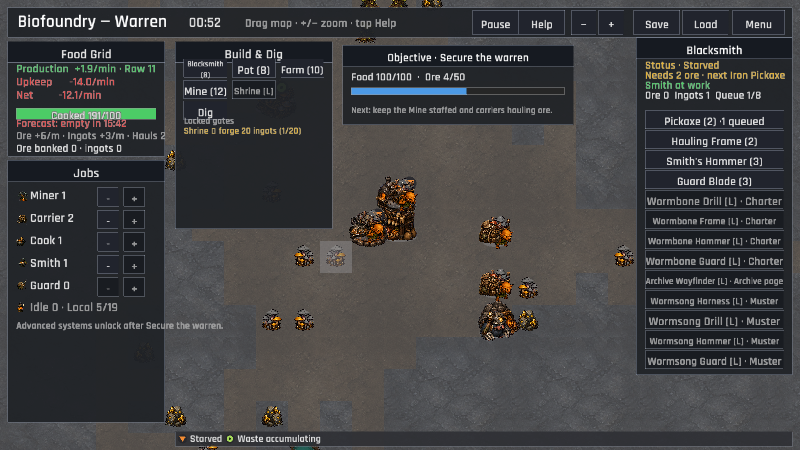
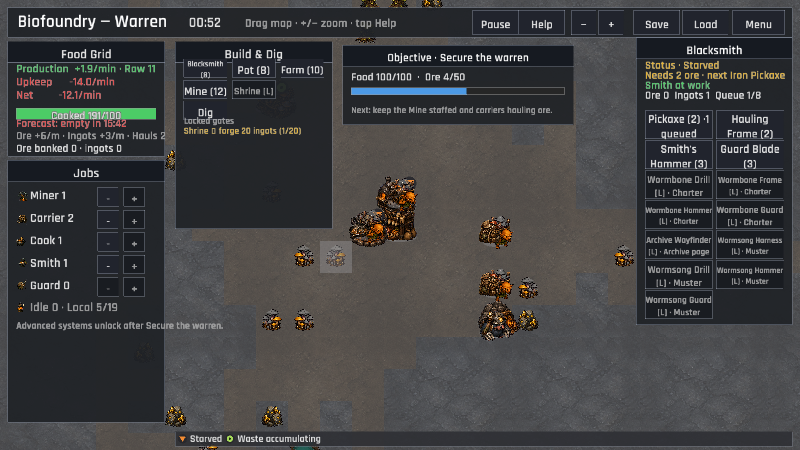
The warren keeps every forge recipe beneath the lesson (compact Blacksmith layout)
The factory tutorial could leave a first-time player staring at a Blacksmith card whose lower recipes fell below an 800×450 canvas. The existing capture set never selected the Blacksmith while Tutorial 3/5 was open, so the failure was invisible to the evidence record.

Compact Blacksmith recipes now use a two-column card with 46-pixel actions and a seven-row maximum for the authored 13-recipe catalogue; desktop keeps its single-column reading order. A deterministic tutorial_blacksmith capture and the default compact touch sweep cover the previously missing state, and the candidate record links the new evidence. cargo fmt, 500 unit tests plus two auxiliary targets, clippy, source-size checks, the 800×450 sweep, and publish.ps1 all pass.

Changed region(s): [[0.7812, 0.2489, 1.0, 0.84]]

diff --git a/src/ui/hud/inspect.rs b/src/ui/hud/inspect.rs
@@ -16,6 +16,7 @@ use macroquad_toolkit::grid::TilePos;
 use macroquad_toolkit::prelude::*;
 use macroquad_toolkit::ui::draw_ui_text_ex;
 
+mod blacksmith;
 mod breeding;
 mod outpost;
 mod rooms;
@@ -23,6 +24,7 @@ mod status;
 mod study;
 mod workstations;
 
+use blacksmith::{draw_blacksmith_inspection, BlacksmithInspection};
 use breeding::{breed_button_label, breeding_unlock_hint};
 #[cfg(test)]
 use outpost::outpost_archive_summary;
@@ -42,11 +44,13 @@ use status::{
 };
 use study::{study_adaptation_line, study_rate_per_min};
 #[cfg(test)]
-use workstations::equipment_lock_label;
 use workstations::{
-    blacksmith_equipment_label, blacksmith_input_hint, blacksmith_queue_available,
-    cook_pot_input_hint, kiln_input_hint, local_smelter_staffed_at, local_smelter_worker_at,
-    local_smith_staffed_at, local_smith_worker_at, smelter_input_hint,
+    blacksmith_equipment_label, blacksmith_queue_available, equipment_lock_label,
+    local_smith_staffed_at, local_smith_worker_at,
+};
+use workstations::{
+    blacksmith_input_hint, cook_pot_input_hint, kiln_input_hint, local_smelter_staffed_at,
+    local_smelter_worker_at, smelter_input_hint,
 };
 
 const LOCKED_SPECIALIST_MARKER: &str = "[L]";
@@ -77,11 +81,8 @@ pub(super) fn draw_inspect_panel(
     // The blacksmith panel carries the production-order queue and craft
     // buttons, and the breeding pit its breed buttons — both taller.
     let height = match building.kind.as_str() {
-        "blacksmith" if compact && data.equipment.len() >= 13 => {
-            124.0 + data.equipment.len() as f32 * inspect_button_step
-        }
-        "blacksmith" if compact && data.equipment.len() >= 10 => {
-            154.0 + data.equipment.len() as f32 * inspect_button_step
+        "blacksmith" if compact => {
+            124.0 + data.equipment.len().div_ceil(2) as f32 * inspect_button_step
         }
         "blacksmith" => 194.0 + data.equipment.len() as f32 * inspect_button_step,
         "breeding_pit" => {
@@ -289,63 +290,21 @@ pub(super) fn draw_inspect_panel(
             );
         }
         "blacksmith" => {
-            let working = session
-                .creatures
-                .iter()
-                .any(|c| local_smith_worker_at(c, pos));
-            let staffed = session
-                .creatures
-                .iter()
-                .any(|c| local_smith_staffed_at(c, pos));
-            line(
-                if working {
-                    "Smith at work"
-                } else if staffed {
-                    "Smith stationed"
-                } else {
-                    "No smith — idle"
-                },
-                if staffed {
-                    dark::POSITIVE
-                } else {
-                    dark::WARNING
-                },
-                &mut y,
-            );
-            let queue_available = blacksmith_queue_available(building, data);
-            line(
-                &format!(
-                    "Ore {:.0}  Ingots {:.0}  Queue {}/{}",
-                    building.stock(Good::Ore),
-                    building.stock(Good::Ingot),
-                    building.orders.len(),
-                    data.balance.order_queue_size,
-                ),
-                dark::TEXT,
-                &mut y,
-            );
-            if !queue_available {
-                line("Queue full · finish orders first", dark::WARNING, &mut y);
-            }
-            // Production orders: one craft button per equipment item. A
-            // queued count and how many are already banked ride in the label.
-            y += 2.0;
-            let bw = panel.w - 28.0;
-            for eq in &data.equipment {
-                let banked = session.economy.gear_stock.get(&eq.id).copied().unwrap_or(0);
-                let queued = building.orders.iter().filter(|o| **o == eq.id).count();
-                let unlocked = session.equipment_unlocked(eq);
-                let label = blacksmith_equipment_label(data, eq, compact, unlocked, queued, banked);
-                if hud_button(
-                    Rect::new(x, y, bw, inspect_button_height),
-                    &label,
-                    queue_available && unlocked,
-                    mouse,
-                ) {
-                    actions.push(UiAction::QueueOrder(pos, eq.id.clone()));
-                }
-                y += inspect_button_step;
-            }
+            draw_blacksmith_inspection(BlacksmithInspection {
+                session,
+                data,
+                building,
+                pos,
+                x,
+                y: &mut y,
+                panel_width: panel.w,
+                mouse,
+                compact,
+                button_height: inspect_button_height,
+                button_step: inspect_button_step,
+                line_step,
+                actions,
+            });
         }
         "kiln" => {
             line(
@@ -768,10 +727,8 @@ pub(super) fn draw_inspect_panel(
 }
 
 fn inspection_button_metrics(kind: &str, compact: bool, equipment_count: usize) -> (f32, f32) {
-    if compact && kind == "blacksmith" && equipment_count >= 10 {
-        (30.0, 32.0)
-    } else if compact && kind == "blacksmith" && equipment_count >= 8 {
-        (34.0, 38.0)
+    if compact && kind == "blacksmith" && equipment_count > 4 {
+        (46.0, 48.0)
     } else if compact && matches!(kind, "blacksmith" | "breeding_pit") {
         (36.0, 40.0)
     } else if !compact && kind == "breeding_pit" {

diff --git a/src/ui/hud/inspect/blacksmith.rs b/src/ui/hud/inspect/blacksmith.rs
@@ -1,0 +1,126 @@
+//! Compact and desktop inspection controls for the Blacksmith.
+
+use super::workstations::{
+    blacksmith_equipment_label, blacksmith_queue_available, local_smith_staffed_at,
+    local_smith_worker_at,
+};
+use crate::data::GameData;
+use crate::state::creatures::Good;
+use crate::state::structures::Building;
+use crate::state::GameSession;
+use crate::ui::hud::widgets::hud_button;
+use crate::ui::UiAction;
+use macroquad::prelude::*;
+use macroquad_toolkit::grid::TilePos;
+use macroquad_toolkit::prelude::*;
+use macroquad_toolkit::ui::draw_ui_text_ex;
+
+pub(super) struct BlacksmithInspection<'a> {
+    pub(super) session: &'a GameSession,
+    pub(super) data: &'a GameData,
+    pub(super) building: &'a Building,
+    pub(super) pos: TilePos,
+    pub(super) x: f32,
+    pub(super) y: &'a mut f32,
+    pub(super) panel_width: f32,
+    pub(super) mouse: Vec2,
+    pub(super) compact: bool,
+    pub(super) button_height: f32,
+    pub(super) button_step: f32,
+    pub(super) line_step: f32,
+    pub(super) actions: &'a mut Vec<UiAction>,
+}
+
+pub(super) fn draw_blacksmith_inspection(args: BlacksmithInspection<'_>) {
+    let BlacksmithInspection {
+        session,
+        data,
+        building,
+        pos,
+        x,
+        y,
+        panel_width,
+        mouse,
+        compact,
+        button_height,
+        button_step,
+        line_step,
+        actions,
+    } = args;
+    let line = |text: &str, color: Color, y: &mut f32| {
+        draw_ui_text_ex(text, x, *y, TextStyle::new(14.0, color).params());
+        *y += line_step;
+    };
+    let working = session
+        .creatures
+        .iter()
+        .any(|c| local_smith_worker_at(c, pos));
+    let staffed = session
+        .creatures
+        .iter()
+        .any(|c| local_smith_staffed_at(c, pos));
+    line(
+        if working {
+            "Smith at work"
+        } else if staffed {
+            "Smith stationed"
+        } else {
+            "No smith — idle"
+        },
+        if staffed {
+            dark::POSITIVE
+        } else {
+            dark::WARNING
+        },
+        y,
+    );
+
+    let queue_available = blacksmith_queue_available(building, data);
+    line(
+        &format!(
+            "Ore {:.0}  Ingots {:.0}  Queue {}/{}",
+            building.stock(Good::Ore),
+            building.stock(Good::Ingot),
+            building.orders.len(),
+            data.balance.order_queue_size,
+        ),
+        dark::TEXT,
+        y,
+    );
+    if !queue_available {
+        line("Queue full · finish orders first", dark::WARNING, y);
+    }
+
+    // On a narrow screen, two columns preserve the complete recipe catalogue
+    // below the tutorial card. The labels deliberately keep the recipe name,
+    // cost, and compact unlock marker, while the full-width desktop card keeps
+    // its original single-column reading order.
+    *y += 2.0;
+    let button_width = panel_width - 28.0;
+    let (column_width, column_gap) = if compact {
+        ((button_width - 6.0) * 0.5, 6.0)
+    } else {
+        (button_width, 0.0)
+    };
+    for (index, eq) in data.equipment.iter().enumerate() {
+        let banked = session.economy.gear_stock.get(&eq.id).copied().unwrap_or(0);
+        let queued = building.orders.iter().filter(|o| **o == eq.id).count();
+        let unlocked = session.equipment_unlocked(eq);
+        let label = blacksmith_equipment_label(data, eq, compact, unlocked, queued, banked);
+        let (column, row) = if compact {
+            (index % 2, index / 2)
+        } else {
+            (0, index)
+        };
+        let button_x = x + column as f32 * (column_width + column_gap);
+        let button_y = *y + row as f32 * button_step;
+        if hud_button(
+            Rect::new(button_x, button_y, column_width, button_height),
+            &label,
+            queue_available && unlocked,
+            mouse,
+        ) {
+            actions.push(UiAction::QueueOrder(pos, eq.id.clone()));
+        }
+    }
+}

diff --git a/src/game/capture_scenes.rs b/src/game/capture_scenes.rs
@@ -129,6 +129,27 @@ pub(super) fn begin(game: &mut Game, scene: &str) {
                 session.economy.ore_stock = 24;
             }
         }
+        "tutorial_blacksmith" => {
+            game.transition(StateTransition::StartWarren);
+            if let GameState::Warren(session) = &mut game.state {
+                session.tutorial_step = 2;
+                session.tutorial_built = true;
+                session.economy.food = 80.0;
+                session.economy.ore_stock = 24;
+                let spawn = session.spawn_tile();
+                let spot = session
+                    .world
+                    .tiles
+                    .iter_with_pos()
+                    .filter(|(pos, _)| session.can_place_building(*pos))
+                    .map(|(pos, _)| pos)
+                    .min_by_key(|p| (p.manhattan_distance(&spawn), p.x, p.y));
+                if let Some(spot) = spot {
+                    session.buildings.push(Building::new("blacksmith", spot));
+                    game.selected_building = Some(spot);
+                }
+            }
+        }
         "tutorial_worm" => {
             begin(game, "shrine");
             if let GameState::Warren(session) = &mut game.state {

diff --git a/src/ui/hud/inspect/tests/equipment.rs b/src/ui/hud/inspect/tests/equipment.rs
@@ -49,18 +49,18 @@ fn compact_blacksmith_labels_keep_recipe_and_gate_text_readable() {
 }
 
 #[test]
-fn compact_blacksmith_cards_keep_a_touchable_height_for_the_complete_wormsong_tier() {
+fn compact_blacksmith_grid_keeps_recipe_buttons_tall_enough_to_read() {
     assert_eq!(
         inspection_button_metrics("blacksmith", true, 8),
-        (34.0, 38.0)
+        (46.0, 48.0)
     );
     assert_eq!(
         inspection_button_metrics("blacksmith", true, 10),
-        (30.0, 32.0)
+        (46.0, 48.0)
     );
     assert_eq!(
         inspection_button_metrics("blacksmith", true, 13),
-        (30.0, 32.0)
+        (46.0, 48.0)
     );
     assert_eq!(
         inspection_button_metrics("blacksmith", false, 8),

diff --git a/docs/phase-one/CANDIDATE_VERIFICATION.md b/docs/phase-one/CANDIDATE_VERIFICATION.md
@@ -88,7 +88,7 @@ automated simulation results into first-time-player evidence.
 | Study Pen adaptation payoff | Pass (focused and capture evidence) | The existing capture → study → adapt loop now has two real payoffs: 12 study unlocks `Adaptive Haulers`, increasing Beetle Hauler capacity by 20% (5 to 6), and 24 study unlocks `Brood Memory`, shortening Breeding Pit hatch cycles by 20% (150s to 120s). Multiple Study Pens stack their observation rate, while an empty pen reports `Waiting for specimens`; the Study Pen inspection shows specimens, study rate, observation total, and the current/next adaptation, and the Breeding Pit reports its live hatch cycle. Focused simulation, capacity, notice, and inspection coverage pin both thresholds, stacking, and legacy-save behavior. Refreshed [ui_study.png](../verification/ui_study.png) and [ui_compact_study.png](../verification/ui_compact_study.png) captures show the mastered adaptation readout; [ui_study_expansion.png](../verification/ui_study_expansion.png) and [ui_compact_study_expansion.png](../verification/ui_compact_study_expansion.png) show two pens doubling the observation rate, while [ui_study_empty.png](../verification/ui_study_empty.png) and [ui_compact_study_empty.png](../verification/ui_compact_study_empty.png) show the empty-pen recovery state at normal and compact sizes. |
 | Minimum-layout spot check | Pass | The 1200×675 canvas and required HUD remained visible in the 1280×720 Preview viewport. |
 | Public metadata alignment | Pass (Preview) | The generated Preview page names the visible touch actions for panning, inspection, tools, Jobs controls, optional specialist recruitment, awakened Outpost cargo runs, optional automatic loading, cargo-only returns and food-only resupply, and the post-awakening Endless/Menu choices. Production FTP publication remains a separate release action. |
-| Compact viewport exploration | Pass with follow-up | The hosted Preview smoke path at 800×450 keeps the title, field guide, and Warren HUD on-canvas; capture probes at 800×450, 1024×576, 1280×720, and 1440×900 keep the Food/Factory/Worm tutorial cards, Blacksmith queue controls, Shrine pause control, completion choices, and Endless outpost actions visible without clipping or overlap. The compact branch now gives the high-frequency top-bar, Jobs, Build & Dig, Outpost, Blacksmith, Breeding Pit, and Shrine controls larger visual affordances; the Outpost card pairs return choices and sequential upgrades so Pause scouting and final Load remain visible, and the refreshed warning captures keep their messages clear of that row. Representative [ui_compact_warren.png](../verification/ui_compact_warren.png), [ui_compact_blacksmith.png](../verification/ui_compact_blacksmith.png), [ui_compact_breeding.png](../verification/ui_compact_breeding.png), [ui_compact_shrine.png](../verification/ui_compact_shrine.png), [ui_compact_endless_load_preview.png](../verification/ui_compact_endless_load_preview.png), [ui_compact_endless_upgraded.png](../verification/ui_compact_endless_upgraded.png), and [ui_compact_endless_wormsong_chorus_haul.png](../verification/ui_compact_endless_wormsong_chorus_haul.png) captures preserve the responsive states. The compact Blacksmith keeps the complete 13-recipe card on-canvas with concise recipe and gate labels; the Breeding Pit retains 36-pixel action targets with 40-pixel spacing; remaining text density and first-time-player comprehension still require human validation. |
+| Compact viewport exploration | Pass with follow-up | The hosted Preview smoke path at 800×450 keeps the title, field guide, and Warren HUD on-canvas; capture probes at 800×450, 1024×576, 1280×720, and 1440×900 keep the Food/Factory/Worm tutorial cards, Blacksmith queue controls, Shrine pause control, completion choices, and Endless outpost actions visible without clipping or overlap. The compact branch now gives the high-frequency top-bar, Jobs, Build & Dig, Outpost, Blacksmith, Breeding Pit, and Shrine controls larger visual affordances; the Outpost card pairs return choices and sequential upgrades so Pause scouting and final Load remain visible, and the refreshed warning captures keep their messages clear of that row. Representative [ui_compact_warren.png](../verification/ui_compact_warren.png), [ui_compact_blacksmith.png](../verification/ui_compact_blacksmith.png), [ui_compact_tutorial_blacksmith.png](../verification/ui_compact_tutorial_blacksmith.png), [ui_compact_breeding.png](../verification/ui_compact_breeding.png), [ui_compact_shrine.png](../verification/ui_compact_shrine.png), [ui_compact_endless_load_preview.png](../verification/ui_compact_endless_load_preview.png), [ui_compact_endless_upgraded.png](../verification/ui_compact_endless_upgraded.png), and [ui_compact_endless_wormsong_chorus_haul.png](../verification/ui_compact_endless_wormsong_chorus_haul.png) captures preserve the responsive states. The compact Blacksmith now uses a two-column recipe card so the complete 13-recipe catalogue remains visible even below an open factory tutorial; concise recipe and gate labels remain readable, while the Breeding Pit retains 36-pixel action targets with 40-pixel spacing. Remaining text density and first-time-player comprehension still require human validation. |
 | Visible-control smoke path | Pass | A fresh full-screen Preview warren advanced through visible New Warren, + zoom, direct map drag, map-tap inspection (`Stockpile`), valid Farm placement, `− Miner`/`+ Carrier` reassignment, Pause/Resume, Help/Close, Save, and Load without keyboard input. Invalid placement also returned the readable `Can't build there.` notice. The Load round-trip restored the saved `04:45` state with the 10-ore construction site, 2 Miner/2 Carrier staffing, and tutorial `2/5 — Stabilize the Food Grid`; successful placement returned to Inspect instead of creating a second site. This is developer smoke evidence, not a qualifying first-time-player session. |
 | Packaged HUD recovery controls | Pass | A fresh full-screen Preview run changed Settings volume with visible `−`/`+` controls, opened and closed the Field Guide while paused, and resumed the warren with the same visible HUD and tutorial state. This confirms the modal guide leaves the underlying Warren controls recoverable by pointer; it does not replace the still-open full-campaign evidence. |
 | Recent event recovery log | Pass (published capture and Preview) | The visible Field Guide now opens a newest-first Recent Events view backed by the bounded notification history. Published Preview verification opened the guide after a refresh and reviewed persisted `Simulation paused`, `Warren saved.`, and `Warren loaded.` messages; the modal kept both `Field Guide` and `Close` actions available. |
@@ -121,9 +121,10 @@ automated simulation results into first-time-player evidence.
   [ui_compact_endless_auto_load.png](../verification/ui_compact_endless_auto_load.png)
   and [ui_compact_endless_auto_load_started.png](../verification/ui_compact_endless_auto_load_started.png)
   captures keep the new Dispatch policy and departure notice visible.
-  The new [ui_compact_endless_muster_harness.png](../verification/ui_compact_endless_muster_harness.png)
-  capture keeps the complete 13-recipe Muster-gated Blacksmith card on-canvas
-  with 30-pixel recipe actions.
+   The new [ui_compact_endless_muster_harness.png](../verification/ui_compact_endless_muster_harness.png)
+   capture keeps the complete 13-recipe Muster-gated Blacksmith card on-canvas
+   with 46-pixel recipe actions; [ui_compact_tutorial_blacksmith.png](../verification/ui_compact_tutorial_blacksmith.png)
+   covers the same card while the factory tutorial remains open.
   Remaining text density remains a human-readability follow-up.
 - Endless cargo priority — pass; the outbound hold obeys Ore, Ingots, or Food
   priority, preserves the local food reserve, and persists the selected order
